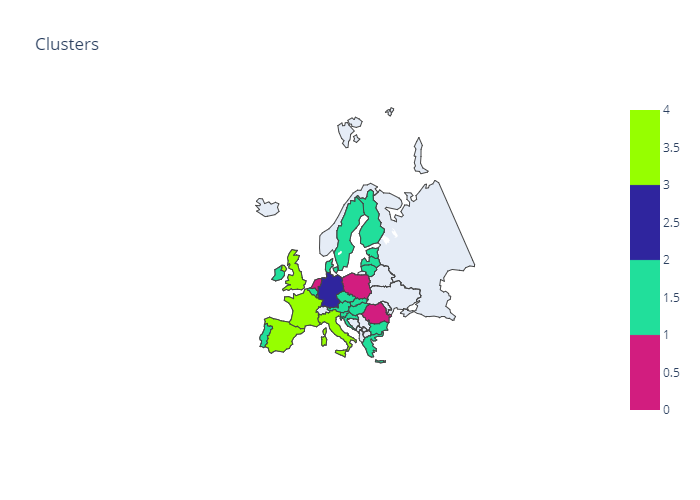
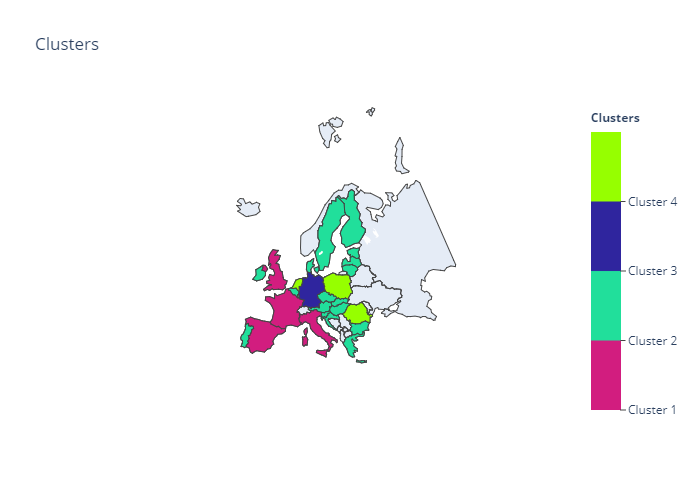
upd

diff --git a/Research/classify.py b/Research/classify.py
@@ -268,6 +268,13 @@ eu_map = go.Figure(
                     [0.25, 'rgb(33, 223, 155)'], [0.50, 'rgb(33, 223, 155)'],
                     [0.50, 'rgb(47, 37, 158)'], [0.75, 'rgb(47, 37, 158)'],
                     [0.75, 'rgb(150, 255, 0)'], [1.0, 'rgb(150, 255, 0)']],
+        colorbar=dict(
+            title='<b>Clusters</b>',
+            tickmode='array',
+            tickvals=[0, 1, 2, 3],
+            ticktext=['Cluster 1', 'Cluster 2', 'Cluster 3', 'Cluster 4'],
+            ticks='outside'
+        ),
         zmin=0,
         zmax=4)
 )

diff --git a/Research/Research.md b/Research/Research.md
@@ -486,6 +486,39 @@ ind_kmeans.write_image('.\\Graphics\\ind_kmeans.png')
 ![Кластеры](Graphics/ind_kmeans.png)
 
 Для большей наглядности представим это на карте Европы:
+```py
+eu_PC2ei['KMeans=2'] = ind_k2means
+eu_PC2ei['KMeans=4'] = ind_k4means
+
+eu_map = go.Figure(
+    data=go.Choropleth(
+        locations=eu_PC2ei['Country'],
+        locationmode='country names',
+        z=eu_PC2ei['KMeans=4'],
+        hovertext=hover_text,
+        colorscale=[[0.00, 'rgb(210, 29, 127)'], [0.25, 'rgb(210, 29, 127)'],
+                    [0.25, 'rgb(33, 223, 155)'], [0.50, 'rgb(33, 223, 155)'],
+                    [0.50, 'rgb(47, 37, 158)'], [0.75, 'rgb(47, 37, 158)'],
+                    [0.75, 'rgb(150, 255, 0)'], [1.0, 'rgb(150, 255, 0)']],
+        colorbar=dict(
+            title='<b>Clusters</b>',
+            tickmode='array',
+            tickvals=[0, 1, 2, 3],
+            ticktext=['Cluster 1', 'Cluster 2', 'Cluster 3', 'Cluster 4'],
+            ticks='outside'
+        ),
+        zmin=0,
+        zmax=4)
+)
+
+eu_map.update_layout(
+    title_text='Clusters',
+    geo_scope='europe',  # limite map scope
+)
+
+eu_map.show()
+eu_map.write_image('.\\Graphics\\eu_map.png')
+```
 
 ![Кластеры (Карта)](Graphics/eu_map.png)
 
